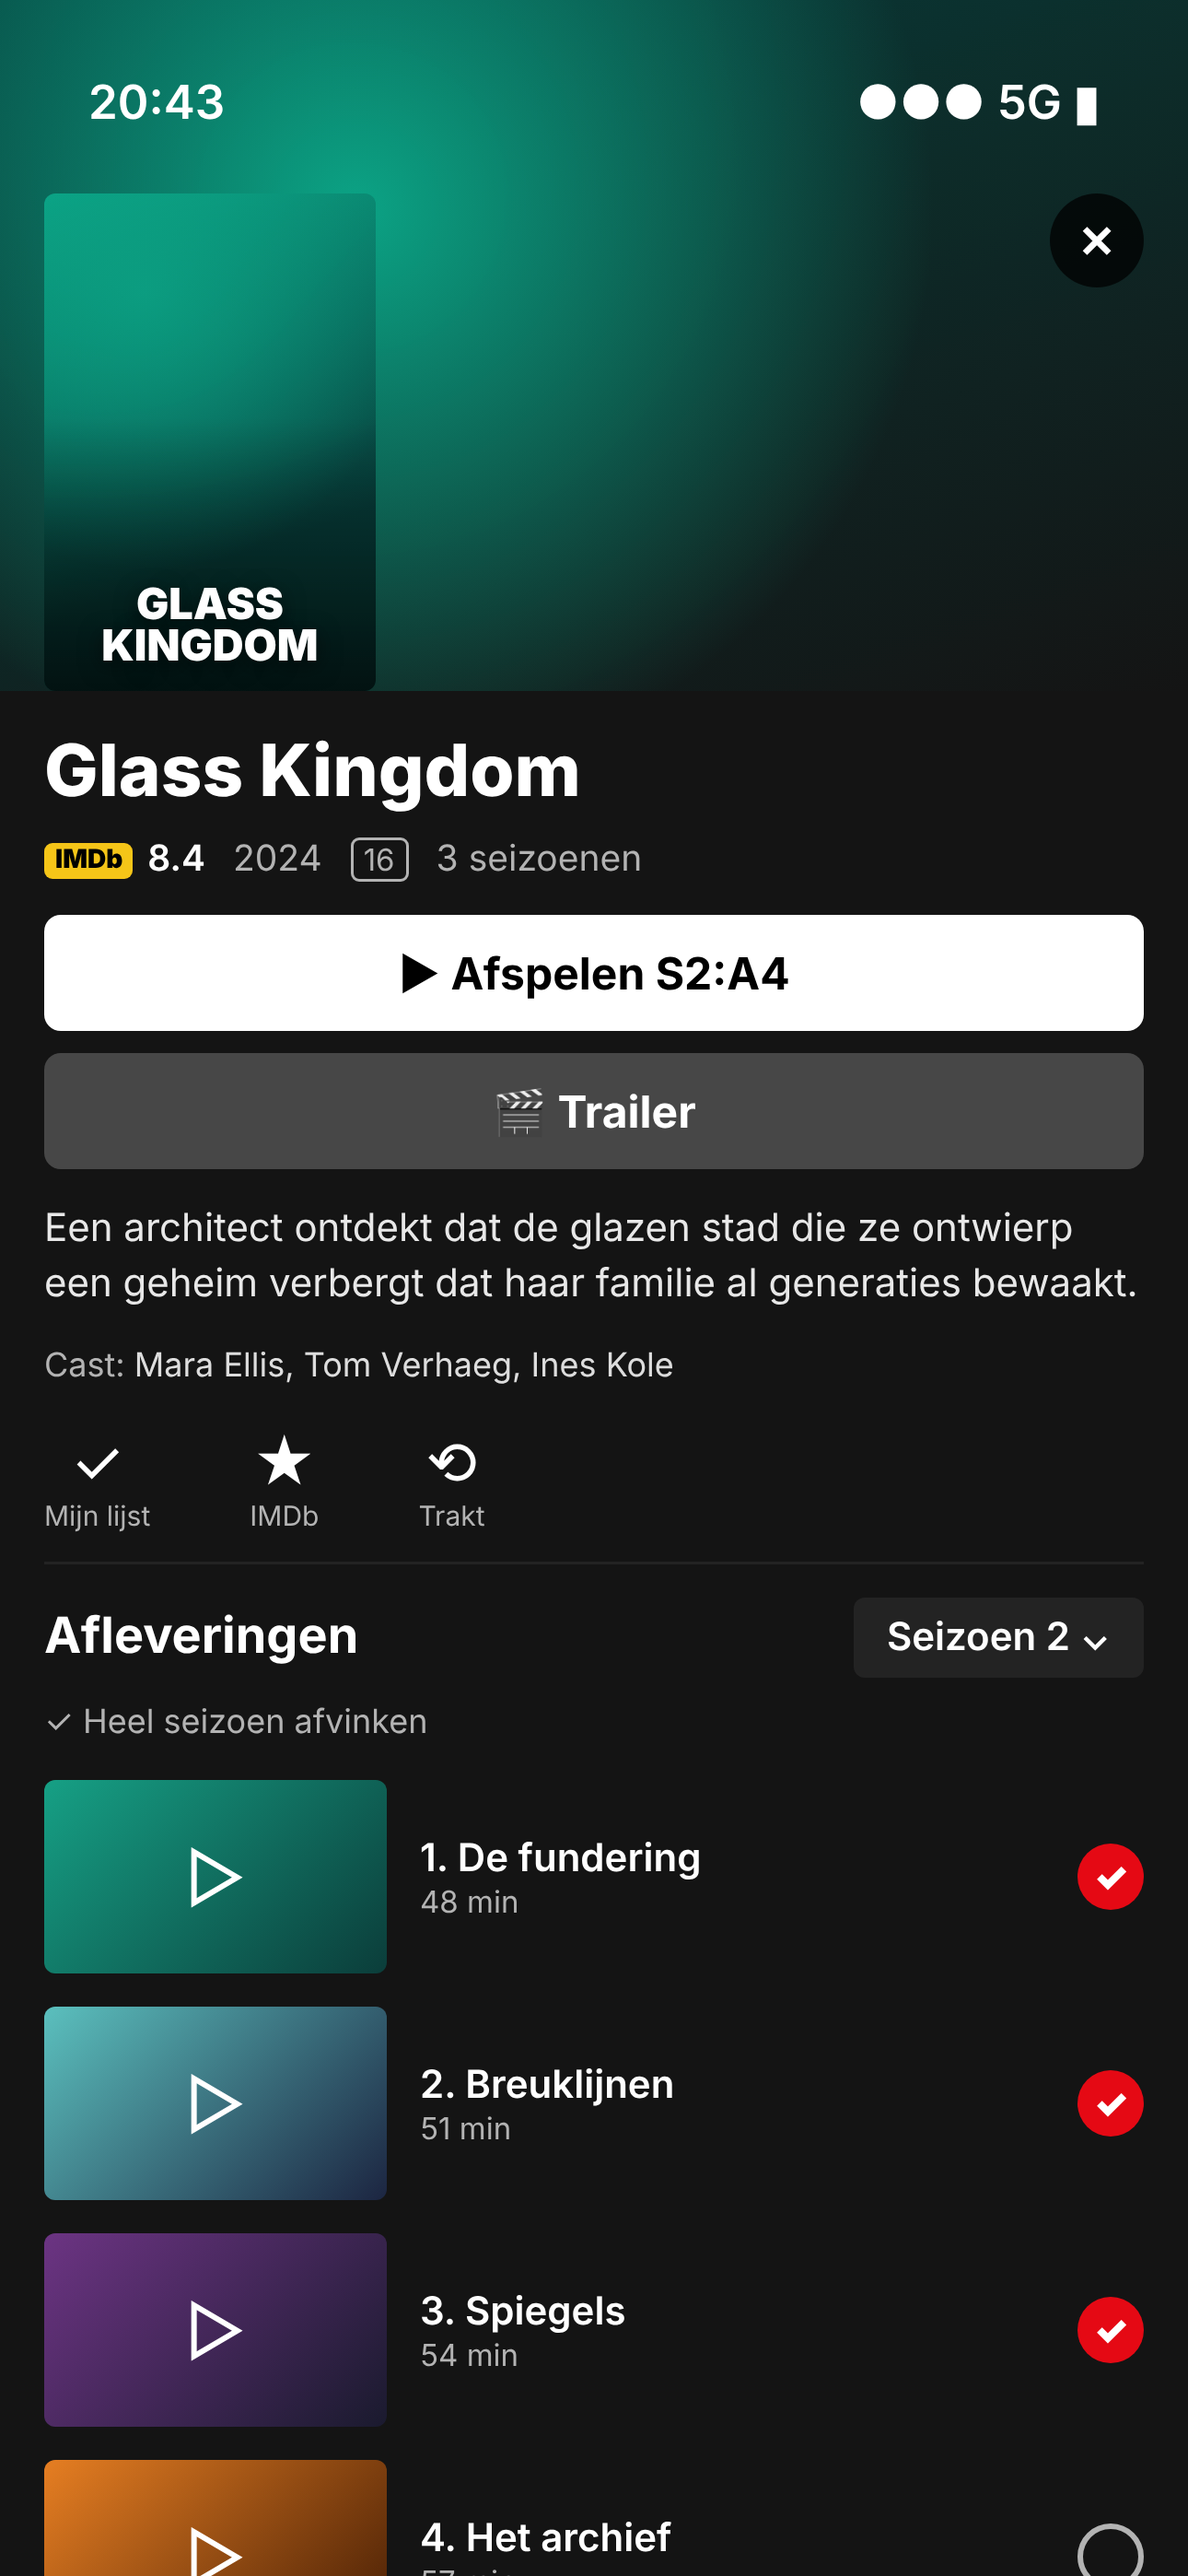
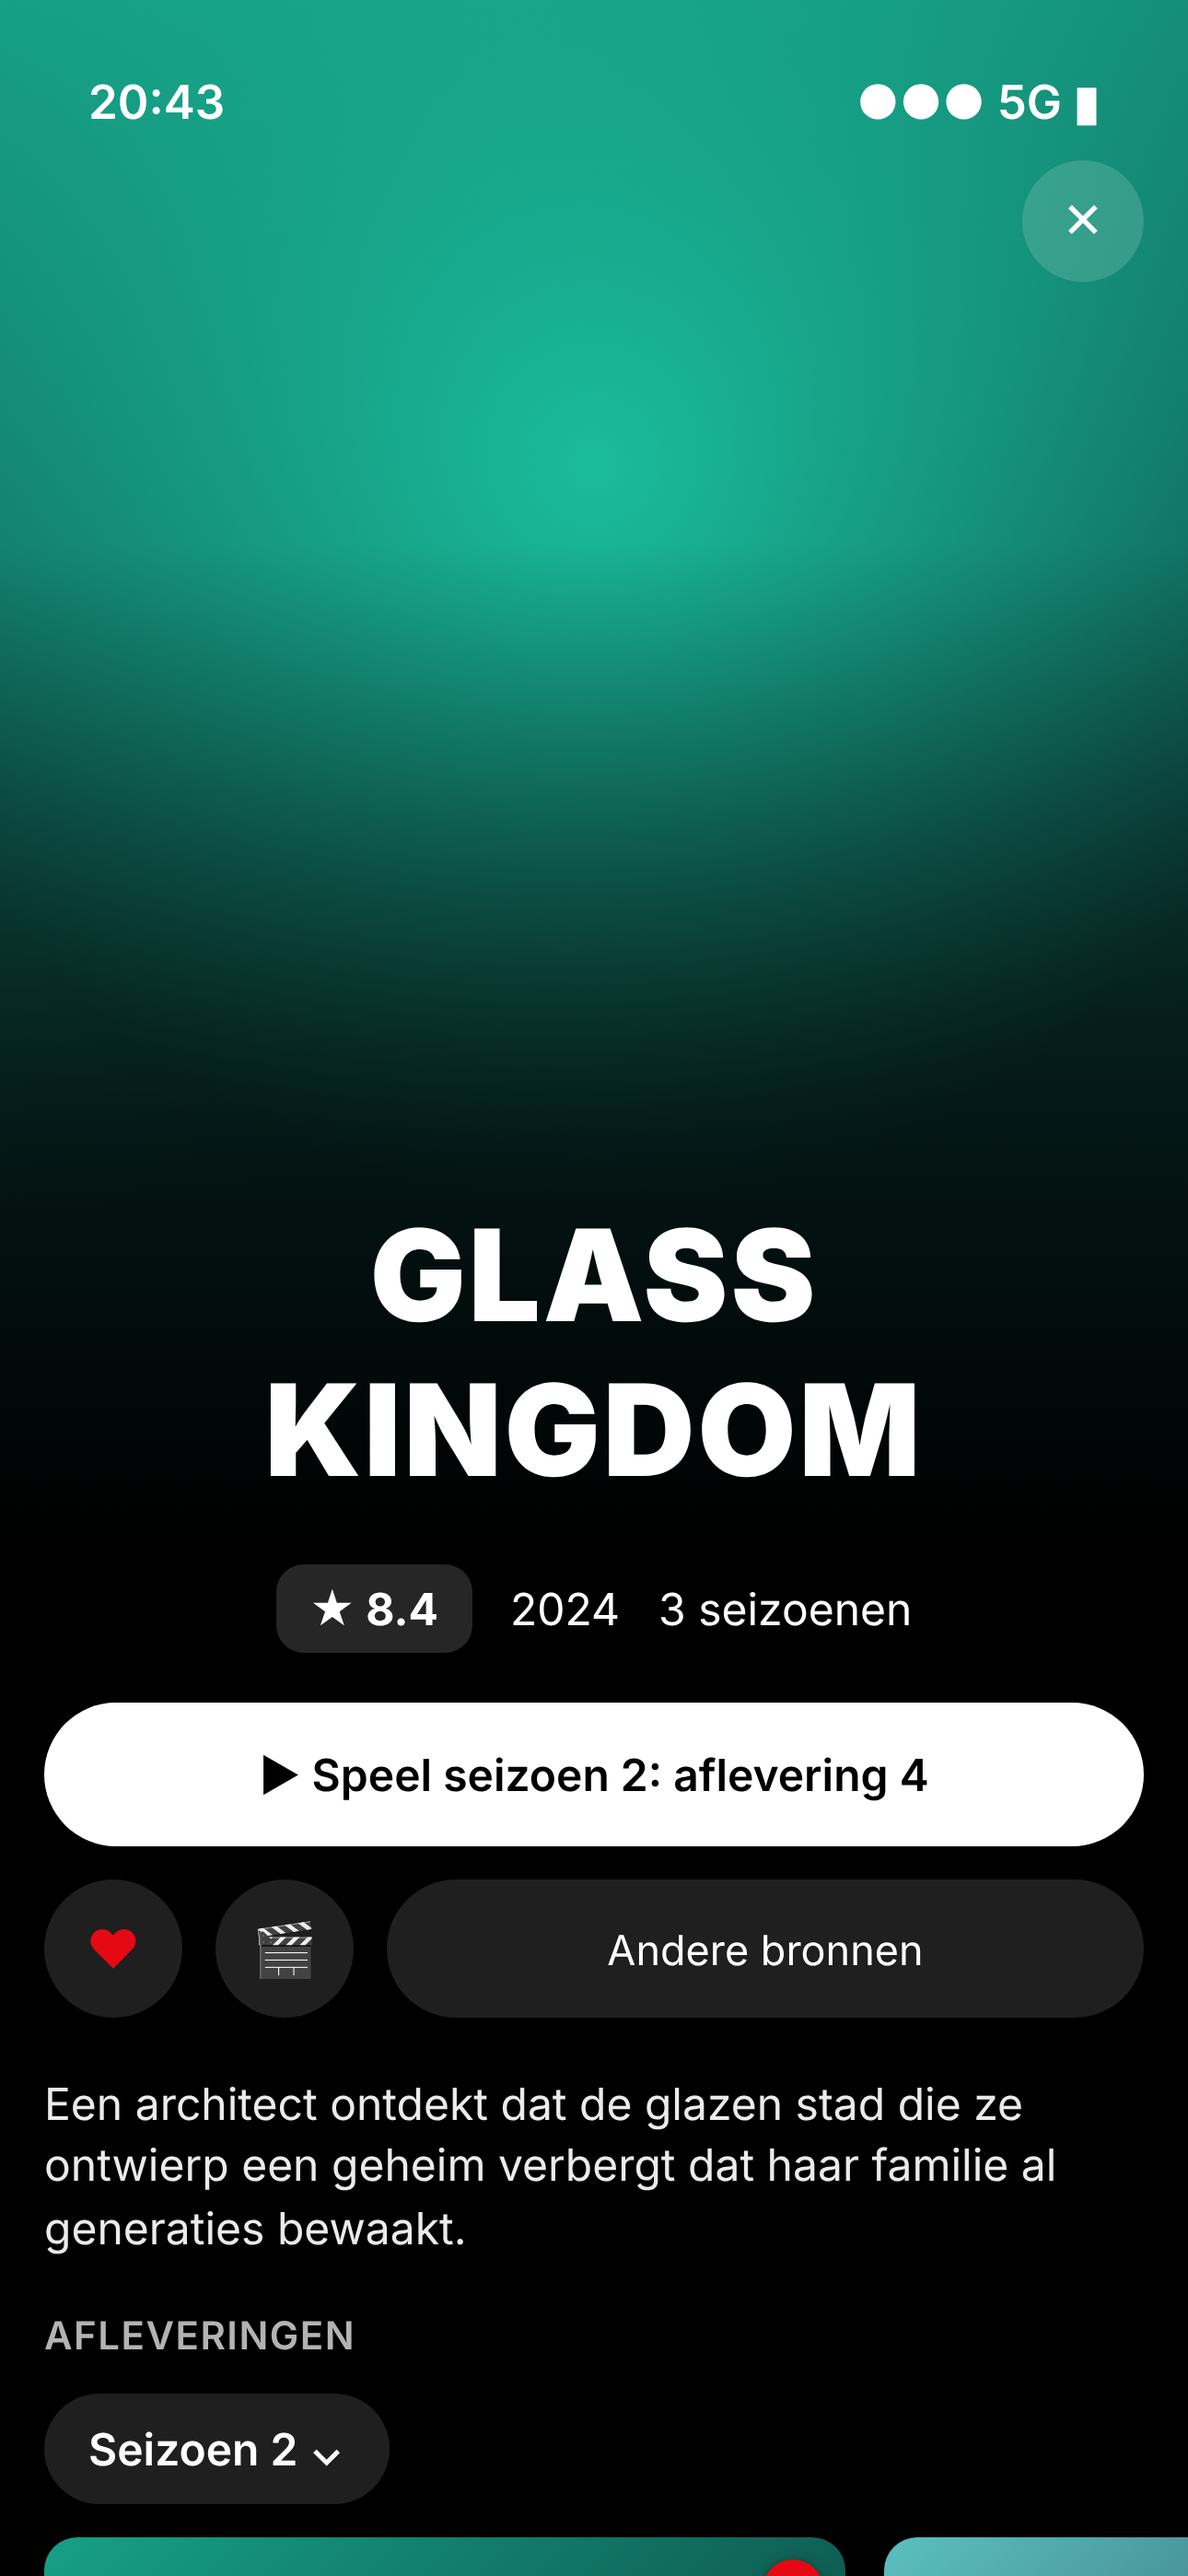
README en screenshots voor de nieuwe detailpagina (1.2.0)
Claude-Session: https://claude.ai/code/session_01QoqqLVTvT2ekCDQmWshsy8

diff --git a/docs/mockups/mockups.html b/docs/mockups/mockups.html
@@ -75,23 +75,33 @@ const screens = {
    <div class="row"><h3>Top 10 films vandaag</h3><div class="scroller">${[0,1,2].map((i,k)=>`<div style="display:flex;align-items:center;flex:none"><div style="font-size:150px;font-weight:900;line-height:1;background:linear-gradient(#4a4a4a,#111);-webkit-background-clip:text;color:transparent;-webkit-text-stroke:2px #888;margin-right:-22px">${k+1}</div>${poster(i+5,112,{check:k==1})}</div>`).join('')}</div></div>
    </div>
    <div class="tabbar">${["Home","Live TV","Films","Series","Zoeken","Mijn Bingr"].map((t,i)=>`<div class="${i==0?'on':''}"><span style="font-size:22px">${["⌂","◉","▤","▦","⌕","◯"][i]}</span>${t}</div>`).join('')}</div></div>`,
- ios_detail:()=>`<div class="screen" style="background:#141414"><div style="height:250px;background:radial-gradient(circle at 30% 30%,#16a085,transparent 60%),linear-gradient(160deg,#0b3d3a,#141414);position:relative;filter:saturate(1.1)">
-   <div class="status" style="position:relative"><span>20:43</span><span>●●● 5G ▮</span></div>
-   <div style="position:absolute;bottom:0;left:16px;right:16px;display:flex;justify-content:space-between;align-items:flex-end">${poster(3,120)}<div style="width:34px;height:34px;border-radius:50%;background:#000b;display:grid;place-items:center;align-self:flex-start;font-weight:700">✕</div></div></div>
-   <div style="padding:14px 16px">
-   <div style="font-size:26px;font-weight:800">Glass Kingdom</div>
-   <div style="display:flex;gap:10px;align-items:center;color:#b3b3b3;font-size:13px;margin:8px 0 12px"><span class="imdb"><b>IMDb</b><span style="color:#fff">8.4</span></span><span>2024</span><span style="border:1px solid #b3b3b3;border-radius:3px;padding:0 4px;font-size:11px">16</span><span>3 seizoenen</span></div>
-   <div class="btn w" style="width:100%;padding:11px;font-size:16px">▶ Afspelen S2:A4</div>
-   <div class="btn g" style="width:100%;padding:11px;font-size:16px;margin-top:8px">🎬 Trailer</div>
-   <p style="font-size:14px;line-height:1.4;margin:12px 0;opacity:.9">Een architect ontdekt dat de glazen stad die ze ontwierp een geheim verbergt dat haar familie al generaties bewaakt.</p>
-   <div style="font-size:12px;color:#b3b3b3">Cast: <span style="color:#ddd">Mara Ellis, Tom Verhaeg, Ines Kole</span></div>
-   <div style="display:flex;gap:36px;margin:16px 0 10px;text-align:center;font-size:10px;color:#b3b3b3">${[["✓","Mijn lijst"],["★","IMDb"],["⟲","Trakt"]].map(a=>`<div><div style="font-size:22px;color:#fff">${a[0]}</div>${a[1]}</div>`).join('')}</div>
-   <div style="border-top:1px solid #232323;padding-top:12px;display:flex;justify-content:space-between;align-items:center"><b style="font-size:18px">Afleveringen</b><span style="background:#232323;padding:6px 12px;border-radius:4px;font-weight:600;font-size:14px">Seizoen 2 ⌄</span></div>
-   <div style="font-size:12px;color:#b3b3b3;margin:8px 0">✓ Heel seizoen afvinken</div>
-   ${[["De fundering",1],["Breuklijnen",1],["Spiegels",1],["Het archief",0],["Onder het glas",0]].map((e,i)=>`<div style="display:flex;align-items:center;gap:12px;padding:6px 0">
-     <div style="width:124px;height:70px;border-radius:4px;flex:none;position:relative;background:linear-gradient(135deg,${P[(i+3)%18][2]},${P[(i+3)%18][1]});display:grid;place-items:center;font-size:24px">▷${i==3?'<div class="bar"><i style="width:35%"></i></div>':''}</div>
-     <div style="flex:1"><div style="font-weight:600;font-size:14px">${i+1}. ${e[0]}</div><div style="font-size:11px;color:#b3b3b3">${48+i*3} min</div></div>
-     ${e[1]?'<div style="width:24px;height:24px;border-radius:50%;background:var(--red);display:grid;place-items:center;font-size:14px;font-weight:900">✓</div>':'<div style="width:24px;height:24px;border-radius:50%;border:2px solid #b3b3b3"></div>'}</div>`).join('')}
+ ios_detail:()=>`<div class="screen" style="background:#000;overflow:hidden">
+   <div style="position:relative;height:560px;background:radial-gradient(circle at 50% 30%,#1abc9c,transparent 60%),linear-gradient(170deg,#16a085,#0b3d3a 70%)">
+     <div style="position:absolute;inset:0;background:linear-gradient(transparent 35%,#000a 75%,#000)"></div>
+     <div class="status" style="position:relative"><span>20:43</span><span>●●● 5G ▮</span></div>
+     <div style="position:absolute;top:58px;right:16px;width:44px;height:44px;border-radius:50%;background:#ffffff26;backdrop-filter:blur(10px);display:grid;place-items:center;font-size:18px">✕</div>
+     <div style="position:absolute;bottom:14px;left:0;right:0;text-align:center;font-weight:900;font-size:46px;letter-spacing:1px">GLASS<br>KINGDOM</div>
+   </div>
+   <div style="padding:6px 16px 0">
+     <div style="display:flex;justify-content:center;gap:14px;align-items:center;font-size:16px"><span style="background:#ffffff26;border-radius:10px;padding:6px 12px;font-weight:700">★ 8.4</span>2024<span>3 seizoenen</span></div>
+     <div style="margin-top:18px;background:#fff;color:#000;border-radius:999px;height:52px;display:grid;place-items:center;font-weight:600;font-size:16px">▶ Speel seizoen 2: aflevering 4</div>
+     <div style="display:flex;gap:12px;margin-top:12px">${["♥","🎬"].map(x=>`<div style="width:50px;height:50px;border-radius:50%;background:#ffffff1f;display:grid;place-items:center;font-size:19px;${x=='♥'?'color:var(--red)':''}">${x}</div>`).join('')}<div style="flex:1;height:50px;border-radius:999px;background:#ffffff1f;display:grid;place-items:center;font-size:15px">Andere bronnen</div></div>
+     <p style="font-size:16px;line-height:1.4;margin:20px 0;opacity:.92">Een architect ontdekt dat de glazen stad die ze ontwierp een geheim verbergt dat haar familie al generaties bewaakt.</p>
+     <div style="color:#b3b3b3;font-size:14px;font-weight:600;letter-spacing:.5px">AFLEVERINGEN</div>
+     <div style="display:inline-block;margin:12px 0;background:#ffffff1f;border-radius:999px;padding:10px 16px;font-weight:600">Seizoen 2 ⌄</div>
+     <div style="display:flex;gap:14px">${[["De fundering","Mara keert terug naar de stad en vindt een verborgen kamer onder het atrium."],["Breuklijnen","Het eerste glas barst. Tom ontdekt wie de bouw sabo..."]].map((e,i)=>`<div style="width:290px;flex:none;background:#ffffff0f;border-radius:14px;padding-bottom:8px">
+       <div style="height:163px;border-radius:12px;position:relative;background:linear-gradient(135deg,${P[i+3][2]},${P[i+3][1]})">${i==0?'<div class="check" style="width:22px;height:22px;top:8px;right:8px">✓</div><div style="position:absolute;left:16px;right:16px;bottom:12px;height:5px;border-radius:5px;background:#fff"></div>':'<div style="position:absolute;left:16px;right:16px;bottom:12px;height:5px;border-radius:5px;background:#ffffff4d"><div style="width:35%;height:100%;background:#fff;border-radius:5px"></div></div>'}</div>
+       <div style="padding:6px 4px 0"><div style="color:#b3b3b3;font-size:13px">S02E0${i+1}</div><div style="font-weight:600">${e[0]}</div><div style="color:#b3b3b3;font-size:13px;line-height:1.3;margin-top:2px">${e[1]}</div><div style="font-size:12px;opacity:.8;margin-top:4px">${3+i*7} februari 2026 · 4${8+i} min</div></div></div>`).join('')}</div>
+   </div></div>`,
+ ios_detail2:()=>`<div class="screen" style="background:#000">
+   <div style="height:106px;background:#1e1e1ecc;backdrop-filter:blur(20px);display:flex;align-items:flex-end;justify-content:center;padding-bottom:16px;font-weight:600;font-size:17px;position:relative">Glass Kingdom<div style="position:absolute;right:16px;bottom:6px;width:44px;height:44px;border-radius:50%;background:#ffffff26;display:grid;place-items:center">✕</div></div>
+   <div style="padding:22px 16px 0">
+     <div style="color:#b3b3b3;font-size:14px;font-weight:600;letter-spacing:.5px">BEOORDELINGEN</div>
+     <div style="display:flex;gap:40px;margin-top:12px">${[["<b style='background:var(--imdb);color:#000;font-size:9px;padding:2px 4px;border-radius:3px'>IMDb</b>","IMDb","8.4"],["<span style='color:#ED1C24'>☑</span>","Trakt","84%"]].map(r=>`<div><div style="display:flex;gap:6px;align-items:center;color:#b3b3b3">${r[0]} ${r[1]}</div><div style="font-size:22px;font-weight:700;margin-top:4px">${r[2]}</div></div>`).join('')}</div>
+     <div style="color:#b3b3b3;font-size:14px;font-weight:600;letter-spacing:.5px;margin-top:34px">CAST</div>
+     <div style="display:grid;grid-template-rows:76px 76px;grid-auto-flow:column;gap:14px 26px;margin-top:12px">${[["Mara Ellis","Ilse Verbeek"],["Tom Verhaeg","Joris Smit"],["Ines Kole","Lotte de Wit"],["Ruud Bos","Commissaris"]].map((c,i)=>`<div style="display:flex;align-items:center;gap:12px;width:250px"><div style="width:70px;height:70px;border-radius:50%;background:linear-gradient(135deg,${P[i+5][2]},${P[i+5][1]});display:grid;place-items:center;font-weight:700;color:#fff8">${c[0].split(' ').map(x=>x[0]).join('')}</div><div><div style="font-size:16px">${c[0]}</div><div style="color:#b3b3b3;font-size:14px">${c[1]}</div></div></div>`).join('')}</div>
+     <div style="color:#b3b3b3;font-size:14px;font-weight:600;letter-spacing:.5px;margin-top:34px">AANBEVELINGEN</div>
+     <div style="display:flex;gap:14px;margin-top:12px">${[0,4,10].map(i=>`<div><div class="poster" style="width:160px;height:240px;border-radius:12px;background:linear-gradient(160deg,${P[i][2]},${P[i][1]} 70%);font-size:20px"><span>${P[i][0]}</span></div><div style="margin-top:6px;font-size:14px">${P[i][0]}</div></div>`).join('')}</div>
    </div></div>`,
  ios_live:()=>`<div class="screen"><div class="status"><span>20:44</span><span>●●● 5G ▮</span></div>
    <div style="font-size:34px;font-weight:800;padding:8px 16px">Live TV</div>

diff --git a/README.md b/README.md
@@ -14,8 +14,10 @@ SwiftUI · iOS 17+ · tvOS 17+ · Apple- én VLC-engine · 11 talen.
 | Splash | Afspeellijst kiezen | Home |
 |:---:|:---:|:---:|
 | <img src="docs/screenshots/ios_splash.png" width="240"> | <img src="docs/screenshots/ios_picker.png" width="240"> | <img src="docs/screenshots/ios_home.png" width="240"> |
-| **Serie + Trakt-vinkjes** | **Live TV** | **Tv-gids** |
-| <img src="docs/screenshots/ios_detail.png" width="240"> | <img src="docs/screenshots/ios_live.png" width="240"> | <img src="docs/screenshots/ios_guide.png" width="240"> |
+| **Details** | **Details: scores, cast, aanbevelingen** | **Live TV** |
+| <img src="docs/screenshots/ios_detail.png" width="240"> | <img src="docs/screenshots/ios_detail2.png" width="240"> | <img src="docs/screenshots/ios_live.png" width="240"> |
+| **Tv-gids** | | |
+| <img src="docs/screenshots/ios_guide.png" width="240"> | | |
 | **Afspeellijst toevoegen** | **Instellingen** | |
 | <img src="docs/screenshots/ios_add.png" width="240"> | <img src="docs/screenshots/ios_settings.png" width="240"> | |
 
@@ -53,6 +55,14 @@ SwiftUI · iOS 17+ · tvOS 17+ · Apple- én VLC-engine · 11 talen.
 - **Beheren**: groepen en zenders hernoemen, herschikken, samenvoegen en verbergen
 - **Kinderslot** met pincode: groepen op slot, volwassenengroepen automatisch, 30 min ontgrendelen
 
+**Detailpagina (UHF-stijl)**
+- Grote afbeelding met titel-logo, score, jaar en speelduur/seizoenen
+- Eén knop "Speel seizoen 2: aflevering 4" (gaat verder waar je was), Mijn lijst, trailer, afvinken
+- **Andere bronnen**: dezelfde titel in andere groepen of afspeellijsten
+- Afleveringen als kaarten met foto, voortgang, vinkje, beschrijving en uitzenddatum
+- Beoordelingen (IMDb, Trakt), cast met foto's en rol, aanbevelingen (direct afspelen als ze in je lijst staan)
+- Werkt zonder sleutels met de info van je Xtream-server; IMDb, Trakt en TMDB vullen aan
+
 **Netflix-ervaring**
 - Geanimeerde splash, billboard, rijen, Top 10 (Trakt trending in jouw lijst), Verder kijken, Mijn lijst
 - **IMDb**-score, plot, cast (via OMDb) en **trailers** (via Trakt)
@@ -77,6 +87,7 @@ SwiftUI · iOS 17+ · tvOS 17+ · Apple- én VLC-engine · 11 talen.
    | Trakt | https://trakt.tv/oauth/applications/new | Redirect URI: `urn:ietf:wg:oauth:2.0:oob` |
    | OpenSubtitles | https://www.opensubtitles.com/consumers | "API consumer" aanmaken |
    | IMDb-gegevens (OMDb) | https://www.omdbapi.com/apikey.aspx | gratis: 1000 verzoeken/dag; titels worden gecachet |
+   | TMDB (optioneel) | https://www.themoviedb.org/settings/api | foto's van cast, titel-logo's, afleveringsfoto's, teksten in jouw taal |
 3. **Signing**: kies in Xcode je Team voor beide targets (`Bingr` en `BingrTV`).
 4. **iCloud**: zet bij beide targets de capability *iCloud → Key-value storage* aan (staat al in de entitlements) en houd dezelfde Team-ID aan.
 
